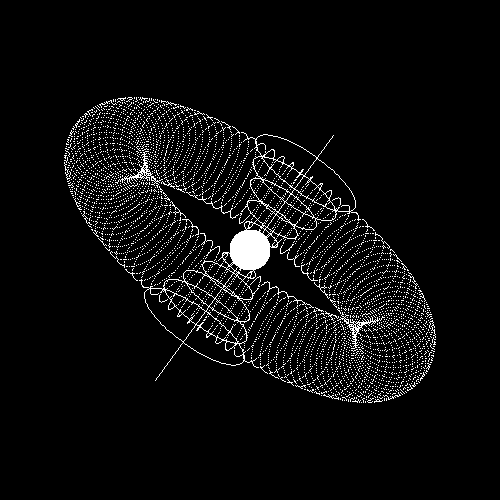
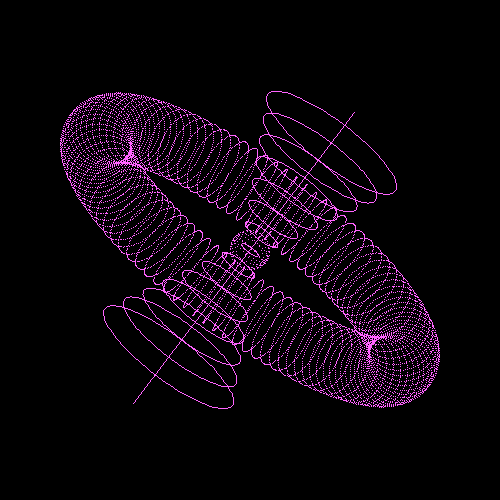
done

Changed region(s): [[0.12, 0.18, 0.9, 0.81], [0.3, 0.72, 0.33, 0.78], [0.54, 0.21, 0.57, 0.24]]

diff --git a/parser.c b/parser.c
@@ -119,7 +119,7 @@ void parse_file ( char * filename,
     else if ( strncmp(line, "sphere", strlen(line)) == 0 ){
       fgets(line, 255, f);
       sscanf(line, "%lf %lf %lf", &x, &y, &r1);
-      double step = 100; //This will affect how many points show up for the sphere (higher step => more detailed sphere)
+      double step = 15; //This will affect how many points show up for the sphere (higher step => more detailed sphere)
       generate_sphere(pm, x, y, r1, step);
     }
     else if ( strncmp(line, "torus", strlen(line)) == 0 ){
